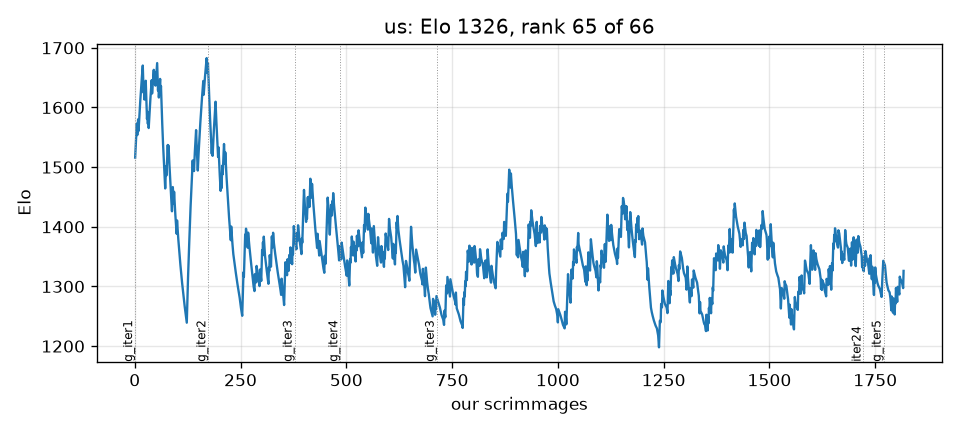
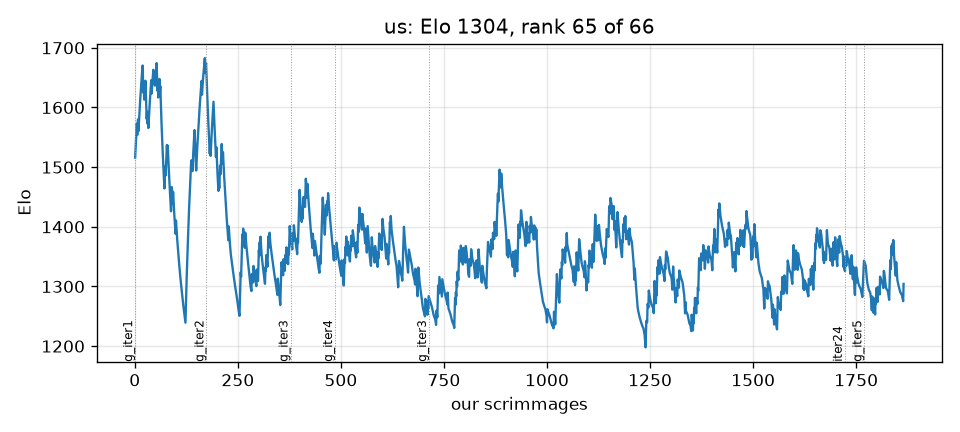
Block 36 (g_iter3 12/48, last incumbent block)
Claude-Session: https://claude.ai/code/session_01CTUHPRaZ9DbYUkpWKYf2Y2

diff --git a/BENCHMARK.md b/BENCHMARK.md
@@ -54,14 +54,14 @@ every recorded block; the tier is the most recent build's record against that op
 | `ARognes.flyingturtlebot` | ARognes_Battlecode (2ebba1e) | - | - | untested |  |
 | `AllenWang314.bot1` | AllenWang314_Battlecode (3b90f73) | 100 | 5 | peer(>90 once) | 100 |
 | `AllenWang314.lecMod2` | AllenWang314_Battlecode (3b90f73) | - | - | untested |  |
-| `AngusRitossa.newbot` | AngusRitossa_battlecode20 (c9ad5c7) | 0 | 4 | locked | 0 8 4 6 0 0 |
+| `AngusRitossa.newbot` | AngusRitossa_battlecode20 (c9ad5c7) | 0 | 5 | locked | 0 8 4 6 0 0 |
 | `AngusRitossa.okbot` | AngusRitossa_battlecode20 (c9ad5c7) | - | - | untested |  |
 | `EmaPajic.Mark1` | EmaPajic_Battlecode-2020 (c060a22) | - | - | untested |  |
 | `EmaPajic.Mark2` | EmaPajic_Battlecode-2020 (c060a22) | - | - | untested |  |
 | `EmaPajic.Mark3` | EmaPajic_Battlecode-2020 (c060a22) | - | - | untested |  |
 | `EmaPajic.Mark4` | EmaPajic_Battlecode-2020 (c060a22) | - | - | untested |  |
 | `EmaPajic.Mark5` | EmaPajic_Battlecode-2020 (c060a22) | - | - | untested |  |
-| `EmaPajic.Qualifications` | EmaPajic_Battlecode-2020 (c060a22) | 0 | 4 | locked | 20 0 21 0 50 0 |
+| `EmaPajic.Qualifications` | EmaPajic_Battlecode-2020 (c060a22) | 0 | 8 | locked | 20 0 21 0 50 0 |
 | `EmaPajic.SeedingBot` | EmaPajic_Battlecode-2020 (c060a22) | - | - | untested |  |
 | `GabrielDWu.basicbot` | GabrielDWu_blezers-battlecode2020 (c0283f8) | - | - | untested |  |
 | `GabrielDWu.blezerbot` | GabrielDWu_blezers-battlecode2020 (c0283f8) | - | - | untested |  |
@@ -79,7 +79,7 @@ every recorded block; the tier is the most recent build's record against that op
 | `IvanGeffner.dronecrunchplus` | IvanGeffner_battlecode2020 (bc7dbca) | - | - | untested |  |
 | `IvanGeffner.ecoplayer` | IvanGeffner_battlecode2020 (bc7dbca) | - | - | untested |  |
 | `IvanGeffner.ecoplus` | IvanGeffner_battlecode2020 (bc7dbca) | - | - | untested |  |
-| `IvanGeffner.finalbota` | IvanGeffner_battlecode2020 (bc7dbca) | 0 | 4 | locked | 0 8 12 18 0 0 |
+| `IvanGeffner.finalbota` | IvanGeffner_battlecode2020 (bc7dbca) | 0 | 5 | locked | 0 8 12 18 0 0 |
 | `IvanGeffner.finalbotb` | IvanGeffner_battlecode2020 (bc7dbca) | - | - | untested |  |
 | `IvanGeffner.finalbotc` | IvanGeffner_battlecode2020 (bc7dbca) | - | - | untested |  |
 | `IvanGeffner.landscaperop` | IvanGeffner_battlecode2020 (bc7dbca) | - | - | untested |  |
@@ -158,8 +158,8 @@ every recorded block; the tier is the most recent build's record against that op
 | `anthonybench.redemptionplayer` | anthonybench_MITBattleCode-2020 (38fbb99) | - | - | untested |  |
 | `arya-k.donothing` | arya-k_bc20 (1b969b3) | - | - | untested |  |
 | `atliSig.buttletplayer` | atliSig_battlecode20-scaffold (b64b063) | 100 | 1 | peer(>90 once) | 100 |
-| `awesomelemonade.citricsky` | awesomelemonade_Battlecode2020 (7a50e66) | 0 | 3 | locked | 0 0 3 0 0 0 |
-| `battlecode20-team4.finalbota` | battlecode20-team4_battlecode20-scaffold (1cee065) | 0 | 2 | locked | 0 8 23 24 25 0 |
+| `awesomelemonade.citricsky` | awesomelemonade_Battlecode2020 (7a50e66) | 0 | 7 | locked | 0 0 3 0 0 0 |
+| `battlecode20-team4.finalbota` | battlecode20-team4_battlecode20-scaffold (1cee065) | 17 | 6 | locked | 0 8 23 24 25 17 |
 | `battlecode20-team4.team4enemy` | battlecode20-team4_battlecode20-scaffold (1cee065) | - | - | untested |  |
 | `battlecode20-team4.team4player` | battlecode20-team4_battlecode20-scaffold (1cee065) | - | - | untested |  |
 | `battlecode.lectureplayer` | battlecode_lectureplayer (2836576) | - | - | untested |  |
@@ -170,11 +170,11 @@ every recorded block; the tier is the most recent build's record against that op
 | `benzyx.espada` | benzyx_bc20-waterloo (05df2e7) | - | - | untested |  |
 | `benzyx.firstplayer` | benzyx_bc20-waterloo (05df2e7) | - | - | untested |  |
 | `benzyx.kurobot` | benzyx_bc20-waterloo (05df2e7) | - | - | untested |  |
-| `benzyx.seeding` | benzyx_bc20-waterloo (05df2e7) | 33 | 3 | target | 25 17 50 40 25 33 |
+| `benzyx.seeding` | benzyx_bc20-waterloo (05df2e7) | 50 | 6 | peer | 25 17 50 40 25 50 |
 | `benzyx.tortuga` | benzyx_bc20-waterloo (05df2e7) | - | - | untested |  |
 | `charboltron.master_player` | charboltron_pdx_battlecode_2020_team_11 (f78f1e3) | - | - | untested |  |
 | `charboltron.team11newbot` | charboltron_pdx_battlecode_2020_team_11 (f78f1e3) | 100 | 1 | peer(>90 once) | 100 |
-| `cormackikkert.whyPermutator` | cormackikkert_battlecode2020 (4d230c4) | 25 | 4 | target | 25 17 38 40 25 25 |
+| `cormackikkert.whyPermutator` | cormackikkert_battlecode2020 (4d230c4) | 50 | 8 | peer | 25 17 38 40 25 50 |
 | `cormackikkert.whyPermutatorOld` | cormackikkert_battlecode2020 (4d230c4) | - | - | untested |  |
 | `cosimogonnelli.Team3player` | cosimogonnelli_CS454-554-SE (d7dc657) | 80 | 5 | peer | 80 |
 | `cs454-w20-team3.oldbot` | cs454-w20-team3_team3-bot (502c334) | - | - | untested |  |
@@ -202,7 +202,7 @@ every recorded block; the tier is the most recent build's record against that op
 | `kylittle.deliriumv1` | kylittle_DeliriumBattlecode (17a94dd) | - | - | untested |  |
 | `kylittle.qualsbot` | kylittle_DeliriumBattlecode (17a94dd) | - | - | untested |  |
 | `kylittle.qualsbot2` | kylittle_DeliriumBattlecode (17a94dd) | 100 | 1 | peer(>90 once) | 100 |
-| `laurenschneider.pdx_team_one` | laurenschneider_battlecode20-PDXTeamOne (2965376) | 25 | 4 | target | 0 50 39 14 0 25 |
+| `laurenschneider.pdx_team_one` | laurenschneider_battlecode20-PDXTeamOne (2965376) | 25 | 8 | target | 0 50 39 14 0 25 |
 | `lfchain.bigBudsBot` | lfchain_Battlecode2020 (b026153) | 100 | 1 | peer(>90 once) | 100 |
 | `lfchain.fBot` | lfchain_Battlecode2020 (b026153) | - | - | untested |  |
 | `lfchain.jBot` | lfchain_Battlecode2020 (b026153) | - | - | untested |  |
@@ -245,7 +245,7 @@ every recorded block; the tier is the most recent build's record against that op
 | `mvpatel2000.oldhades` | mvpatel2000_Battlecode2020 (554943e) | - | - | untested |  |
 | `mvpatel2000.poseidon` | mvpatel2000_Battlecode2020 (554943e) | - | - | untested |  |
 | `mvpatel2000.quail` | mvpatel2000_Battlecode2020 (554943e) | - | - | untested |  |
-| `mvpatel2000.qual` | mvpatel2000_Battlecode2020 (554943e) | 50 | 2 | peer | 0 8 24 13 67 50 |
+| `mvpatel2000.qual` | mvpatel2000_Battlecode2020 (554943e) | 17 | 6 | locked | 0 8 24 13 67 17 |
 | `mvpatel2000.qualAttacc` | mvpatel2000_Battlecode2020 (554943e) | - | - | untested |  |
 | `mvpatel2000.qualNoAtacc` | mvpatel2000_Battlecode2020 (554943e) | - | - | untested |  |
 | `mvpatel2000.seeding` | mvpatel2000_Battlecode2020 (554943e) | - | - | untested |  |
@@ -279,10 +279,10 @@ every recorded block; the tier is the most recent build's record against that op
 | `poortho.rush` | poortho_battlecode-2020 (ebbd61e) | - | - | untested |  |
 | `poortho.rush_bot` | poortho_battlecode-2020 (ebbd61e) | - | - | untested |  |
 | `poortho.stable_miner1` | poortho_battlecode-2020 (ebbd61e) | - | - | untested |  |
-| `poortho.stable_seeding_bot` | poortho_battlecode-2020 (ebbd61e) | 25 | 4 | target | 0 17 27 31 0 25 |
+| `poortho.stable_seeding_bot` | poortho_battlecode-2020 (ebbd61e) | 25 | 8 | target | 0 17 27 31 0 25 |
 | `ps789.dennisTestPlayer` | ps789_AZBattlecode (f1d54ab) | - | - | untested |  |
 | `ps789.phillipTestPlayer` | ps789_AZBattlecode (f1d54ab) | - | - | untested |  |
-| `ronniesong0809.finalbota` | ronniesong0809_battlecode20-RADS (1cee065) | 0 | 4 | locked | 0 18 15 7 0 0 |
+| `ronniesong0809.finalbota` | ronniesong0809_battlecode20-RADS (1cee065) | 0 | 7 | locked | 0 18 15 7 0 0 |
 | `ronniesong0809.team4enemy` | ronniesong0809_battlecode20-RADS (1cee065) | - | - | untested |  |
 | `ronniesong0809.team4player` | ronniesong0809_battlecode20-RADS (1cee065) | - | - | untested |  |
 | `rsandzimier.PlayerAlpha` | rsandzimier_battlecode2020 (8d856c3) | - | - | untested |  |
@@ -292,7 +292,7 @@ every recorded block; the tier is the most recent build's record against that op
 | `rzhan11.kryptonite` | rzhan11_Battlecode2020 (3cc4b50) | - | - | untested |  |
 | `rzhan11.landscaper_rush_bot` | rzhan11_Battlecode2020 (3cc4b50) | - | - | untested |  |
 | `rzhan11.orig_rush_bot` | rzhan11_Battlecode2020 (3cc4b50) | - | - | untested |  |
-| `rzhan11.quals_bot` | rzhan11_Battlecode2020 (3cc4b50) | 50 | 2 | peer | 0 17 6 12 0 50 |
+| `rzhan11.quals_bot` | rzhan11_Battlecode2020 (3cc4b50) | 17 | 6 | locked | 0 17 6 12 0 17 |
 | `rzhan11.rush_bot` | rzhan11_Battlecode2020 (3cc4b50) | - | - | untested |  |
 | `rzhan11.seeding` | rzhan11_Battlecode2020 (3cc4b50) | - | - | untested |  |
 | `rzhan11.sprint` | rzhan11_Battlecode2020 (3cc4b50) | - | - | untested |  |
@@ -309,7 +309,7 @@ every recorded block; the tier is the most recent build's record against that op
 | `uvafan.v12_quals_bot` | uvafan_bc20 (86fe290) | - | - | untested |  |
 | `uvafan.v12_quals_bot_tuned` | uvafan_bc20 (86fe290) | - | - | untested |  |
 | `uvafan.v13_post_quals` | uvafan_bc20 (86fe290) | - | - | untested |  |
-| `uvafan.v14_final_bot` | uvafan_bc20 (86fe290) | 0 | 4 | locked | 0 8 1 0 0 0 |
+| `uvafan.v14_final_bot` | uvafan_bc20 (86fe290) | 0 | 8 | locked | 0 8 1 0 0 0 |
 | `uvafan.v14_final_bot_tuned` | uvafan_bc20 (86fe290) | - | - | untested |  |
 | `uvafan.v2_better_turtle` | uvafan_bc20 (86fe290) | - | - | untested |  |
 | `uvafan.v3_lattice` | uvafan_bc20 (86fe290) | - | - | untested |  |
@@ -325,7 +325,7 @@ every recorded block; the tier is the most recent build's record against that op
 | `willBoyd8.droideka` | willBoyd8_BattleDroid (4b1d4ad) | - | - | untested |  |
 | `willBoyd8.empire` | willBoyd8_BattleDroid (4b1d4ad) | - | - | untested |  |
 | `willBoyd8.mouse` | willBoyd8_BattleDroid (4b1d4ad) | - | - | untested |  |
-| `winkelmantanner.tannerplayer` | winkelmantanner_battlecode2020_the-levee-builders (7f49f11) | 25 | 4 | target | 0 25 15 23 0 25 |
+| `winkelmantanner.tannerplayer` | winkelmantanner_battlecode2020_the-levee-builders (7f49f11) | 25 | 8 | target | 0 25 15 23 0 25 |
 | `wpine215.stardustv1` | wpine215_battlecode (d570d57) | - | - | untested |  |
 | `wpine215.stardustv2` | wpine215_battlecode (d570d57) | 100 | 4 | peer(>90 once) | 0 30 50 65 100 |
 | `yaonam.Robot_1` | yaonam_battlecode2020 (bb363f5) | 62 | 8 | peer | 62 |

diff --git a/progress/ELO.md b/progress/ELO.md
@@ -1,19 +1,19 @@
 # Elo ladder
 
-1817 scrimmages (ours only); K=32 from 1500; our team is **us**: rank 65 of 66 rated bots, Elo 1326, 1817 games; 0 bots not yet met.
+1865 scrimmages (ours only); K=32 from 1500; our team is **us**: rank 65 of 66 rated bots, Elo 1304, 1865 games; 0 bots not yet met.
 
 | rank | bot | Elo | games | W-L (theirs) |
 |---|---|---|---|---|
-| 1 | awesomelemonade.citricsky | 1861 | 116 | 114-2 |
-| 2 | uvafan.v14_final_bot | 1835 | 106 | 104-2 |
-| 3 | AngusRitossa.newbot | 1818 | 119 | 114-5 |
-| 4 | rzhan11.quals_bot | 1715 | 106 | 97-9 |
-| 5 | IvanGeffner.finalbota | 1700 | 114 | 101-13 |
-| 6 | ronniesong0809.finalbota | 1685 | 117 | 102-15 |
-| 7 | winkelmantanner.tannerplayer | 1653 | 111 | 93-18 |
-| 8 | battlecode20-team4.finalbota | 1584 | 113 | 90-23 |
-| 9 | EmaPajic.Qualifications | 1552 | 110 | 92-18 |
-| 10 | mvpatel2000.qual | 1509 | 112 | 88-24 |
+| 1 | awesomelemonade.citricsky | 1866 | 120 | 118-2 |
+| 2 | uvafan.v14_final_bot | 1841 | 110 | 108-2 |
+| 3 | AngusRitossa.newbot | 1820 | 120 | 115-5 |
+| 4 | rzhan11.quals_bot | 1725 | 110 | 101-9 |
+| 5 | IvanGeffner.finalbota | 1703 | 115 | 102-13 |
+| 6 | ronniesong0809.finalbota | 1694 | 120 | 105-15 |
+| 7 | winkelmantanner.tannerplayer | 1634 | 115 | 96-19 |
+| 8 | EmaPajic.Qualifications | 1577 | 114 | 96-18 |
+| 9 | battlecode20-team4.finalbota | 1571 | 117 | 93-24 |
+| 10 | mvpatel2000.qual | 1542 | 116 | 92-24 |
 | 11 | ovimura.welovesoup | 1491 | 1 | 0-1 |
 | 12 | TeamSerpentine.eendagsvliegjes | 1491 | 1 | 0-1 |
 | 13 | orionquick.aldebaranplayer | 1491 | 1 | 0-1 |
@@ -50,23 +50,23 @@
 | 44 | charboltron.team11newbot | 1488 | 1 | 0-1 |
 | 45 | djkeyes.addingComm | 1488 | 1 | 0-1 |
 | 46 | ARognes.FinalSubmission | 1487 | 5 | 2-3 |
-| 47 | cosimogonnelli.Team3player | 1480 | 5 | 1-4 |
-| 48 | poortho.stable_seeding_bot | 1477 | 108 | 81-27 |
+| 47 | poortho.stable_seeding_bot | 1485 | 112 | 84-28 |
+| 48 | cosimogonnelli.Team3player | 1480 | 5 | 1-4 |
 | 49 | yaonam.Robot_1 | 1474 | 8 | 3-5 |
 | 50 | VinayaBhat.team10pdx | 1472 | 7 | 2-5 |
 | 51 | Tim-gubski.AngryWaffleMaker | 1463 | 7 | 2-5 |
 | 52 | denver-blake.sprint | 1454 | 5 | 0-5 |
 | 53 | KyleHassold.sprintbot | 1448 | 5 | 0-5 |
-| 54 | J-J-Chen.player | 1441 | 5 | 0-5 |
-| 55 | AllenWang314.bot1 | 1435 | 5 | 0-5 |
-| 56 | GabrielDWu.buildawall2 | 1432 | 5 | 0-5 |
-| 57 | cs454-w20-team3.playbot | 1431 | 10 | 4-6 |
-| 58 | cormackikkert.whyPermutator | 1429 | 111 | 73-38 |
-| 59 | laurenschneider.pdx_team_one | 1426 | 115 | 75-40 |
-| 60 | A9ine.potato | 1424 | 5 | 0-5 |
-| 61 | 9mAhmad.lostincoordinates | 1412 | 5 | 0-5 |
-| 62 | benzyx.seeding | 1404 | 104 | 60-44 |
-| 63 | 9mAhmad.MahinBot | 1398 | 5 | 0-5 |
-| 64 | mhahn2003.nonrush | 1387 | 21 | 9-12 |
-| 65 | **us** | 1326 | 1817 | 452-1365 |
+| 54 | laurenschneider.pdx_team_one | 1447 | 119 | 78-41 |
+| 55 | J-J-Chen.player | 1441 | 5 | 0-5 |
+| 56 | AllenWang314.bot1 | 1435 | 5 | 0-5 |
+| 57 | GabrielDWu.buildawall2 | 1432 | 5 | 0-5 |
+| 58 | cs454-w20-team3.playbot | 1431 | 10 | 4-6 |
+| 59 | A9ine.potato | 1424 | 5 | 0-5 |
+| 60 | 9mAhmad.lostincoordinates | 1412 | 5 | 0-5 |
+| 61 | 9mAhmad.MahinBot | 1398 | 5 | 0-5 |
+| 62 | mhahn2003.nonrush | 1387 | 21 | 9-12 |
+| 63 | cormackikkert.whyPermutator | 1387 | 115 | 74-41 |
+| 64 | benzyx.seeding | 1380 | 107 | 61-46 |
+| 65 | **us** | 1304 | 1865 | 461-1404 |
 | 66 | wpine215.stardustv2 | 1253 | 111 | 55-56 |

diff --git a/TRAINING_LOG.md b/TRAINING_LOG.md
@@ -1092,6 +1092,10 @@ r2000, 9 by r3000, 6 after -- the raid window holds 46% of the losses, as before
 policy applies: withdraw if the Wilson upper bound of the accumulated g_iter5 blocks falls below
 g_iter3's 21.6%.
 
+## Block 36 -- g_iter3 against the challenge pool (run block36, 2026-09-24)
+
+48 games: **12/48 (25%)**; cumulative for g_iter3 256/1164 (22.0%). The last g_iter3 block; the ladder now measures g_iter5.
+
 ## Block 35 -- g_iter3 against the challenge pool (run block35, 2026-09-24)
 
 48 games: **12/48 (25%)**; cumulative for g_iter3 244/1116 (21.8%). Elo 1329, rank 65 of 66.
